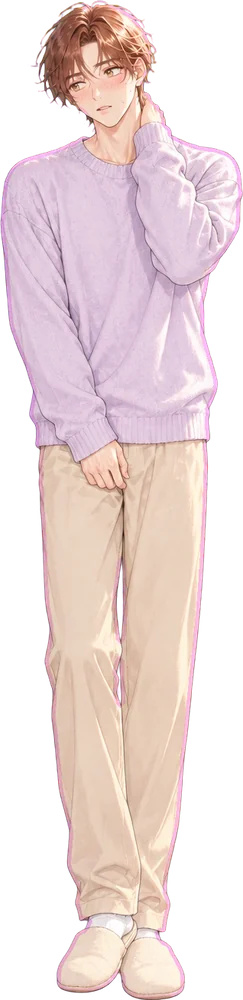
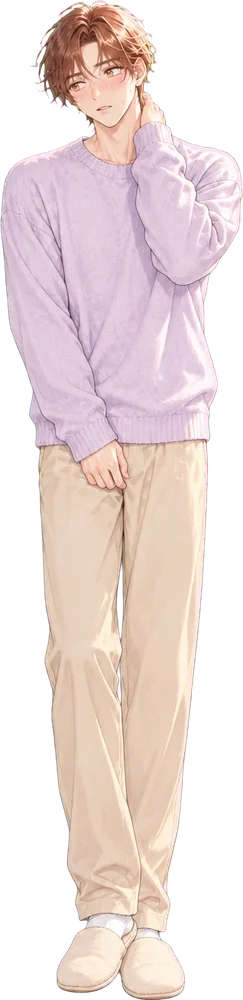
우진·건우·유찬 옷차림 누끼 최종본 반영

diff --git a/index.html b/index.html
@@ -472,7 +472,7 @@ h1,h2,h3,.wordmark,.hud-line b,.sh-head b,.wizq h2,input[type=text]{font-family:
    <button class="btn blue" id="b-new">새로 시작</button>
    <button class="btn ghost sm" id="b-slots" style="display:none;background:rgba(255,255,255,.8)">저장 슬롯 불러오기</button>
    <button class="btn ghost sm" id="b-cont" style="display:none;background:rgba(255,255,255,.8)">이어하기</button>
-   <div class="note">저장은 이 기기에만 보관돼요. · 빌드 #105 · 2026.10.11<br><span id="fitdiag"></span></div>
+   <div class="note">저장은 이 기기에만 보관돼요. · 빌드 #107 · 2026.10.11<br><span id="fitdiag"></span></div>
   </div>
  </section>
  <section id="setup" class="screen">
@@ -511,7 +511,7 @@ h1,h2,h3,.wordmark,.hud-line b,.sh-head b,.wizq h2,input[type=text]{font-family:
  <div id="agegate" class="agegate"><div class="agbox"><div class="agmark">19</div><h2>성인 이용 안내</h2><p>이 게임에는 성인 연애 묘사(암시적 장면)가 포함되어 있어<br>만 19세 이상만 이용할 수 있어요.</p><label for="ag-year">태어난 해</label><select id="ag-year"></select><button id="ag-ok" class="agok">확인하고 시작하기</button><button id="ag-no" class="agno">나가기</button><small id="ag-msg"></small></div></div>
  <div id="act" class="actcard"></div>
  <div id="ev" class="evcard"></div>
- <div id="buildtag">빌드 #105 · 2026.10.11</div>
+ <div id="buildtag">빌드 #107 · 2026.10.11</div>
  <div class="ov" id="ov"><div class="sheet" id="sheet"></div></div>
 </div>
 <script>// ==ENGINE== 순수 게임 로직 (DOM 금지: sim.mjs가 이 파일들을 그대로 실행한다)
@@ -7453,7 +7453,7 @@ function initGame(){
   $('btn-advice').onclick = () => { if($('dialog').hidden) showDialog(); else $('dialog').hidden = true; };
   $('dlg-x').onclick = () => { $('dialog').hidden = true; };
   document.querySelectorAll('[data-sheet]').forEach(b => b.onclick = () => ({stat:showStats, career:showCareer, love:showLove, dex:showDex, shop:showShop, campus:showCampus, city:showCity, dex:showDex}[b.dataset.sheet])());
-  $('b-menu').onclick = () => { openSheet(sheetHead('메뉴') + `<div class="menu-list"><button class="btn ghost sm" id="m-dex">📖 도감 (엔딩·인물)</button><button class="btn ghost sm" id="m-speed">⏩ 스케줄 연출: ${SPEED_LB[getSpeed()]}</button><button class="btn ghost sm" id="m-update">🔄 새 버전 확인</button><button class="btn ghost sm" id="m-slots">💾 저장 · 불러오기 (슬롯 5개)</button><button class="btn ghost sm" id="m-title">🏠 타이틀로 (자동 저장)</button></div><div class="foot">빌드 #105 · 2026.10.11<br><span id="diag"></span></div>`);
+  $('b-menu').onclick = () => { openSheet(sheetHead('메뉴') + `<div class="menu-list"><button class="btn ghost sm" id="m-dex">📖 도감 (엔딩·인물)</button><button class="btn ghost sm" id="m-speed">⏩ 스케줄 연출: ${SPEED_LB[getSpeed()]}</button><button class="btn ghost sm" id="m-update">🔄 새 버전 확인</button><button class="btn ghost sm" id="m-slots">💾 저장 · 불러오기 (슬롯 5개)</button><button class="btn ghost sm" id="m-title">🏠 타이틀로 (자동 저장)</button></div><div class="foot">빌드 #107 · 2026.10.11<br><span id="diag"></span></div>`);
     $('x').onclick = closeSheet;
     try{ const pr = document.createElement('div'); pr.style.cssText = 'position:fixed;left:0;bottom:0;padding-bottom:env(safe-area-inset-bottom);padding-top:env(safe-area-inset-top);visibility:hidden'; document.body.appendChild(pr); const cs = getComputedStyle(pr), sb = cs.paddingBottom, st = cs.paddingTop; pr.remove(); const sa = window.navigator.standalone === true || matchMedia('(display-mode: standalone)').matches; $('diag').textContent = `화면 ${innerWidth}×${innerHeight} · 기기 ${screen.width}×${screen.height} · 안전영역 위 ${st}/아래 ${sb} · ${sa ? '홈 화면 앱' : '브라우저'}`; }catch(e){}
     $('m-dex').onclick = () => { closeSheet(); showDex(); };
@@ -7515,7 +7515,7 @@ function probeFit(big){
 fitFull(); addEventListener('resize', fitFull); addEventListener('orientationchange', () => setTimeout(fitFull, 300)); setTimeout(fitFull, 600);
 
 // ── 새 버전 확인: 사파리는 페이지를 몇 분간 기억해 두므로, 서버의 빌드 번호와 비교해 알려 준다 ──
-const BUILD_NO = parseInt(('#105 · 2026.10.11'.match(/#(\d+)/) || [0, 0])[1], 10);
+const BUILD_NO = parseInt(('#107 · 2026.10.11'.match(/#(\d+)/) || [0, 0])[1], 10);
 async function checkUpdate(manual){
   try{
     const r = await fetch(location.pathname + '?_=' + Date.now(), {cache:'no-store'}); const txt = await r.text();

diff --git a/sw.js b/sw.js
@@ -1,5 +1,5 @@
 // 자동 생성 파일 (build.mjs). 직접 수정하지 마세요.
-const CACHE = 'rewind-ten-8a5d1fb7b2';
+const CACHE = 'rewind-ten-0293a5d9e4';
 const CORE = ["./","index.html","manifest.json","icon-192.png","icon-512.png","art/cover.webp","art/age20.webp","art/age22.webp","art/act_study.webp","art/act_cafe.webp","art/act_rest.webp","art/act_friends.webp","art/face_happy.webp","art/face_tired.webp"];
 self.addEventListener('install', e => { e.waitUntil(caches.open(CACHE).then(c => c.addAll(CORE)).then(() => self.skipWaiting())); });
 self.addEventListener('activate', e => { e.waitUntil(caches.keys().then(ks => Promise.all(ks.filter(k => k.startsWith('rewind-ten-') && k !== CACHE).map(k => caches.delete(k)))).then(() => self.clients.claim())); });
